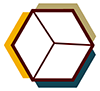
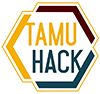
updating rsvp system

diff --git a/public_html/styles/org/style.css b/public_html/styles/org/style.css
@@ -114,11 +114,12 @@ body{
 	text-decoration:none;
 }
 .top_nav_menu_logo{
-	width:450px;
-	height:83px;
+	width:100px;
+	height:94px;
 	float:left;
 	margin-top:10px;
-	background:url("../../images/org/tamuhack_logo_web.png") no-repeat;
+	margin-left:50px;
+	background:url("../../images/org/cube.png") no-repeat;
 }
 .top_nav_menu{
 	list-style:none;

diff --git a/tamuhack_includes/application/controllers/RegisterController.php b/tamuhack_includes/application/controllers/RegisterController.php
@@ -85,7 +85,7 @@ class RegisterController extends Zend_Controller_Action
 				
 				$th->createNewUser($name_first, $name_last, $email, $pass, 10);
 				
-				$this->generateActivationEmail($email, $name_first, $name_last, $sha);
+				//$this->generateActivationEmail($email, $name_first, $name_last, $sha);
 				
 				$mc = new Mailchimp("398f08e6e69a3fa86638a205cba2ca95-us9");
 				$mc->call("/lists/subscribe", array(
@@ -95,7 +95,7 @@ class RegisterController extends Zend_Controller_Action
 						"email" => array("email" => $email)
 				));
 				
-				return $this->_redirect('/register/activationsent/name/'.$name_first);
+				return $this->_redirect('rsvp');
     		}
     	}    	
     }

diff --git a/tamuhack_includes/application/controllers/PortalController.php b/tamuhack_includes/application/controllers/PortalController.php
@@ -9,7 +9,7 @@ class PortalController extends Zend_Controller_Action
     	$auth = new Zend_Session_Namespace('Zend_Auth');
     	if(!isset($auth->id))
     	{
-    		return $this->_forward('logout');
+    		return $this->_redirect('logout');
     	}else{
     		$this->view->auth = $auth;
     	}
@@ -68,6 +68,7 @@ class PortalController extends Zend_Controller_Action
     	
     	$this->view->application = $application;
     }
+    
 
     public function logoutAction()
     {

diff --git a/tamuhack_includes/application/controllers/RsvpController.php b/tamuhack_includes/application/controllers/RsvpController.php
@@ -1,0 +1,23 @@
+<?php
+
+class RsvpController extends Zend_Controller_Action
+{
+
+
+    public function init()
+    {
+    	$this->_helper->layout()->setLayout("org");
+    	
+    	$auth = new Zend_Session_Namespace('Zend_Auth');
+    	if(isset($auth->id))
+    	{
+    		$this->view->auth = $auth;
+    	}
+    }
+
+
+    public function indexAction()
+    {
+    	
+    }
+}

diff --git a/tamuhack_includes/application/models/TH/Members.php b/tamuhack_includes/application/models/TH/Members.php
@@ -13,7 +13,7 @@ class Application_Model_TH_Members extends Zend_Db_Table_Abstract{
 	
 		$arr = array(
 				'account_type'	=> $accountType,
-				'email_verified'=> 0,
+				'email_verified'=> 1,
 				'rep'			=> 0,
 			    'name_first'   	=> ucfirst($first),
 				'name_last'     => ucfirst($last),
